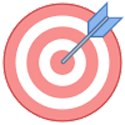
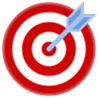
first commit 20/7

diff --git a/src/components/ArrayEducation.jsx b/src/components/ArrayEducation.jsx
@@ -1,4 +1,4 @@
-import React, { useState, useEffect } from "react";
+import React, { useEffect, useState } from "react";
 import "../css/meetEducation.css";
 
 import nextBtn from "../assets/images/introduction/nextBtn.png";
@@ -10,13 +10,14 @@ import arrow from "../assets/images/meetEducation/arrow.png";
 
 function ArrayEducation({ finish, progress, setProgress }) {
   const [openGoal, setOpenGoal] = useState(false);
+
   const {
     hasClickedGoal,
     selectedTrack,
     currentIndex,
     finishedTracks,
   } = progress;
-  const canFinish = finishedTracks.edu && finishedTracks.exp;
+
   const textsMashakEdu = [
     "מש״ק החינוך ישתבץ בסיום הקורס ביחידה ספציפית אליה הוא יהיה משויך (בשונה ממש״ק ההסברה אשר אליו מגיעות יחידות שונות בכל פעם). תפקידו הינו קידום תחום החינוך ביחידה זו.",
 
@@ -31,14 +32,19 @@ function ArrayEducation({ finish, progress, setProgress }) {
     "התכנים המועברים בהסברות יהיו בהתאמה לבקשות המפקדים, ערכי חיל החינוך ובזיקה לאזור בארץ בו הם מתמקצעים. לרוב ההסברות יעברו באותו האזור ואף כחלק מסיור.",
   ];
 
+  const currentTexts =
+    selectedTrack === "edu" ? textsMashakEdu : textsMashakExp;
+
+  const canFinish = finishedTracks.edu && finishedTracks.exp;
+
   useEffect(() => {
     if (!selectedTrack) return;
-  
+
     const texts =
       selectedTrack === "edu" ? textsMashakEdu : textsMashakExp;
-  
+
     const isLast = currentIndex === texts.length - 1;
-  
+
     if (isLast && !finishedTracks[selectedTrack]) {
       setProgress({
         finishedTracks: {
@@ -49,55 +55,63 @@ function ArrayEducation({ finish, progress, setProgress }) {
     }
   }, [currentIndex, selectedTrack]);
 
-  const currentTexts =
-    selectedTrack === "edu" ? textsMashakEdu : textsMashakExp;
   return (
-    <div>
-      <div className="page">
+    <div className="array-education-screen">
+      <div className="page array-education-page">
         <p className="title-content">מערך חינוך</p>
 
         <img
           src={goal}
-          alt="goal"
-          className={`goal-img-arrEdu ${!hasClickedGoal ? "grow-shrink" : ""}`}
+          alt="מטרת מערך החינוך"
+          className={`goal-img-arrEdu ${
+            !hasClickedGoal ? "grow-shrink" : ""
+          }`}
           onClick={() => {
             setOpenGoal(true);
           }}
         />
+
         {hasClickedGoal && (
           <>
-        <p className="sec-title-content">מקצועות המערך:</p>
-        <p className="text-swich-micro">לחצו על הריבועים!</p>
-        <div className="container-mashakim">
-        <img
-  src={mashakEdu}
-  alt="mashakEdu"
-  className={`mashakEdu ${selectedTrack === "edu" ? "glow" : ""}`}
-  onClick={() => {
-    setProgress({
-      selectedTrack: "edu",
-      currentIndex: 0,
-    });
-  }}
-/>
+            <p className="sec-title-content">מקצועות המערך:</p>
 
-<img
-  src={mashakExp}
-  alt="mashakExp"
-  className={`mashakExp ${
-    selectedTrack === "exp" ? "glow" : ""
-  } ${!finishedTracks.edu ? "locked" : ""}`}
-  onClick={() => {
-    if (!finishedTracks.edu) return; // 🔒 נעול עד שמסיימים edu
-    setProgress({
-      selectedTrack: "exp",
-      currentIndex: 0,
-    });
-  }}
-/>
-        </div>
-          {/* תוכן עם אנימציה */}
-          {selectedTrack && (
+            <p className="text-swich-micro">
+              לחצו על הריבועים!
+            </p>
+
+            <div className="container-mashakim">
+              <img
+                src={mashakEdu}
+                alt="מש״ק חינוך"
+                className={`mashakEdu ${
+                  selectedTrack === "edu" ? "glow" : ""
+                }`}
+                onClick={() => {
+                  setProgress({
+                    selectedTrack: "edu",
+                    currentIndex: 0,
+                  });
+                }}
+              />
+
+              <img
+                src={mashakExp}
+                alt="מש״ק הסברה"
+                className={`mashakExp ${
+                  selectedTrack === "exp" ? "glow" : ""
+                } ${!finishedTracks.edu ? "locked" : ""}`}
+                onClick={() => {
+                  if (!finishedTracks.edu) return;
+
+                  setProgress({
+                    selectedTrack: "exp",
+                    currentIndex: 0,
+                  });
+                }}
+              />
+            </div>
+
+            {selectedTrack && (
               <div className="professeion-edu-contianer fade-in">
                 <p className="text-swich">
                   {currentTexts[currentIndex]}
@@ -106,7 +120,7 @@ function ArrayEducation({ finish, progress, setProgress }) {
                 <div className="arrows-container">
                   <img
                     src={arrow}
-                    alt="arrow-right"
+                    alt="לטקסט הקודם"
                     className={`arrow-right ${
                       currentIndex === 0 ? "hidden-arrow" : ""
                     }`}
@@ -121,7 +135,7 @@ function ArrayEducation({ finish, progress, setProgress }) {
 
                   <img
                     src={arrow}
-                    alt="arrow-left"
+                    alt="לטקסט הבא"
                     className={`arrow-left ${
                       currentIndex === currentTexts.length - 1
                         ? "hidden-arrow"
@@ -140,19 +154,39 @@ function ArrayEducation({ finish, progress, setProgress }) {
             )}
           </>
         )}
-        </div>
 
-      {/* הפופאפ מחוץ ל-page */}
+        {/* הכפתור בתוך העמוד ובזרימה הרגילה */}
+        <img
+          src={nextBtn}
+          alt="הבא"
+          className={`nextBtn nav-btns array-education-next-btn ${
+            !canFinish ? "disabled-btn-edu" : ""
+          }`}
+          onClick={() => {
+            if (canFinish) {
+              finish();
+            }
+          }}
+        />
+      </div>
+
       {openGoal && (
         <div
           className="popup-overlay"
           onClick={() => {
             setOpenGoal(false);
-            setProgress({ hasClickedGoal: true });
+            setProgress({
+              hasClickedGoal: true,
+            });
           }}
         >
-          <div className="popup-content" onClick={(e) => e.stopPropagation()}>
-            <p className="goal-text-title">מטרת מערך החינוך</p>
+          <div
+            className="popup-content"
+            onClick={(event) => event.stopPropagation()}
+          >
+            <p className="goal-text-title">
+              מטרת מערך החינוך
+            </p>
 
             <p className="goal-text">
               מערך הנועד לענות על ייעודו של חיל החינוך בעיקר בתחום
@@ -160,15 +194,17 @@ function ArrayEducation({ finish, progress, setProgress }) {
             </p>
 
             <p className="goal-text">
-              מטרת המערך היא להטמיע את ערכי צה"ל ביחידות השונות ולהוביל תהליכים
-              חינוכיים אשר תומכים את המשימה הצבאית.
+              מטרת המערך היא להטמיע את ערכי צה"ל ביחידות השונות ולהוביל
+              תהליכים חינוכיים אשר תומכים את המשימה הצבאית.
             </p>
 
             <p
               className="close-goal-btn"
               onClick={() => {
                 setOpenGoal(false);
-                setProgress({ hasClickedGoal: true });
+                setProgress({
+                  hasClickedGoal: true,
+                });
               }}
             >
               סגור
@@ -176,17 +212,6 @@ function ArrayEducation({ finish, progress, setProgress }) {
           </div>
         </div>
       )}
-
-<img
-  src={nextBtn}
-  alt="next"
-  className={`nextBtn nav-btns ${!canFinish ? "disabled-btn-edu" : ""}`}
-  onClick={() => {
-    if (canFinish) {
-      finish();
-    }
-  }}
-/>
     </div>
   );
 }

diff --git a/src/css/meetEducation.css b/src/css/meetEducation.css
@@ -166,8 +166,8 @@ width: 8rem;
 
 /* מערך חינוך */
 .goal-img-arrEdu {
-    margin-top: 0.7rem;
-    width: 5rem;
+    margin-top: 0.1rem;
+    width: 4rem;
 }
 
 .grow-shrink {
@@ -280,12 +280,12 @@ width: 8rem;
     justify-content: space-around;
 }
 .mashakEdu {
-    width: 5rem;
+    width: 4rem;
     border-radius: 0.5rem;
    
 }
 .mashakExp {
-    width: 5rem;
+    width: 4rem;
     border-radius: 0.5rem;
 }
 
@@ -313,7 +313,7 @@ width: 8rem;
 .text-swich {
   font-family: "rubik";
   color: #477fa3;
-  font-size: 0.95rem;
+  font-size: 1rem;
   padding: 0.5rem;
 }
 
@@ -472,7 +472,7 @@ width: 8rem;
 .text-swich {
   font-family: "rubik";
   color: #477fa3;
-  font-size: 0.9rem;
+  font-size: 0.95rem;
   padding: 0.5rem;
 }
 .arrows-container {
@@ -493,7 +493,7 @@ width: 8rem;
 }
 @media (max-height: 750px) {
   .professeion-edu-contianer {
-    width: 18rem;
+    width: 17rem;
     padding: 1rem 0.5rem;
     border-radius: 1rem;
     display: flex;
@@ -504,7 +504,7 @@ width: 8rem;
   .text-swich {
     font-family: "rubik";
     color: #477fa3;
-    font-size: 0.8rem;
+    font-size: 0.9rem;
     padding: 0.2rem;
   }
   .arrows-container {
@@ -525,3 +525,6 @@ width: 8rem;
 
 
 }
+
+
+

diff --git a/src/css/Content.css b/src/css/Content.css
@@ -5,7 +5,7 @@
 }
 
 .nav-btns {
-    width: 4.5rem;
+    width: 4rem;
     /* margin: 1rem; */
 }
 .nextBtn {
@@ -92,3 +92,6 @@
     margin-top: -1rem;
     margin-left: 9rem;
 } 
+@media (max-height: 750px) {
+
+    }